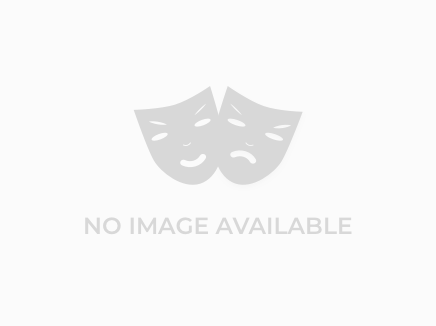
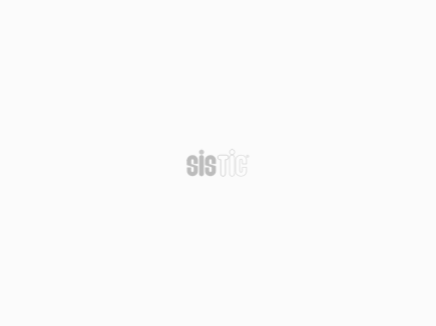
all no images are replaced with new images

Changed region(s): [[0.2982, 0.2761, 0.7156, 0.5828], [0.1789, 0.6442, 0.805, 0.7362]]

diff --git a/web/src/shared/components/Image/index.js b/web/src/shared/components/Image/index.js
@@ -2,20 +2,20 @@ import React, { useState, useEffect, memo } from 'react';
 import PropTypes from 'prop-types';
 import Horizontal from '../../../assets/images/horizontal.png';
 import Vertical from '../../../assets/images/vertical.png';
-import Tile from '../../../assets/images/Vertical Tile.png';
+import Tile from '../../../assets/images/tile.png';
 import Small from '../../../assets/images/small.png';
-import Medium from '../../../assets/images/noimage.png';
+import Medium from '../../../assets/images/medium.png';
 import MediumVertical from '../../../assets/images/mediumVertical.png';
-import MediumHorizontal from '../../../assets/images/mediumHorizontal.jpg';
-import TopPicks from '../../../assets/images/noimage-420-652.png';
+import MediumHorizontal from '../../../assets/images/mediumHorizontal.png';
+import TopPicks from '../../../assets/images/topPicks.png';
 import HorizontalMin from '../../../assets/images/HorizontalMin.png';
-import VerticalTopPic from '../../../assets/images/rsz_vertical.png';
-// import BigBannerMobile from '../../../assets/images/big_banner.png';
-import BigBanner from '../../../assets/images/royals-banner.png';
-import NoImage from '../../../assets/images/No image-.png';
+import VerticalTopPic from '../../../assets/images/verticalTopPic.png';
+// import BigBannerMobile from '../../../assets/images/BigBannerMobile.png';
+import BigBanner from '../../../assets/images/BigBanner.png';
+import NoImage from '../../../assets/images/NoImage.png';
 import Smaller from '../../../assets/images/smaller.png';
 import Promotion from '../../../assets/images/promotion.png';
-import SimilarPicks from '../../../assets/images/similar-picks-noimage.png';
+import SimilarPicks from '../../../assets/images/similarPicks.png';
 import './style.scss';
 
 function Image(props) {

diff --git a/web/src/scenes/Explore/LandingPage/LandingArticles/Article/index.js b/web/src/scenes/Explore/LandingPage/LandingArticles/Article/index.js
@@ -6,7 +6,14 @@ import Utilities from '../../../../../shared/utilities';
 
 const Article = ({ article }) => {
   return (
-    <div className="articles-item">
+    <Link
+      className="articles-item"
+      to={
+        article.type === 'multi_show_template'
+          ? `/explore/2/${article.id}`
+          : `/explore/1/${article.id}`
+      }
+    >
       <div className="article-item-desc">
         <div className="category-group">
           <ul>
@@ -21,15 +28,9 @@ const Article = ({ article }) => {
               })}
           </ul>
         </div>
-        <Link
-          to={
-            article.type === 'multi_show_template'
-              ? `/explore/2/${article.id}`
-              : `/explore/1/${article.id}`
-          }
-        >
+        <a>
           <h3>{article.title}</h3>
-        </Link>
+        </a>
         <div className="article-place-date">
           {article.author_name && (
             <span className="article-place">
@@ -45,15 +46,7 @@ const Article = ({ article }) => {
             article.description,
             Utilities.mobilecheck() ? 80 : 98
           )}
-          <Link
-            to={
-              article.type === 'multi_show_template'
-                ? `/explore/2/${article.id}`
-                : `/explore/1/${article.id}`
-            }
-          >
-            More
-          </Link>
+          <a>More</a>
         </p>
       </div>
       <div className="article-item-img">
@@ -63,7 +56,7 @@ const Article = ({ article }) => {
           className="img-fluid"
         />
       </div>
-    </div>
+    </Link>
   );
 };
 

diff --git a/web/src/scenes/Explore/LandingPage/Banner/index.js b/web/src/scenes/Explore/LandingPage/Banner/index.js
@@ -3,7 +3,7 @@ import './style.scss';
 import Slider from 'react-slick';
 import Image from '../../../../shared/components/Image';
 import Utilities from '../../../../shared/utilities';
-import NoImage from '../../../../assets/images/noimage.png';
+import NoImage from '../../../../assets/images/medium.png';
 
 const BannerSlider = ({ bannerData }) => {
   const [nav1, setNav1] = useState(null);
@@ -58,8 +58,12 @@ const BannerSlider = ({ bannerData }) => {
                     )}
                   </div>
                   <div className="explore-banner-image">
-                    {banner && banner.image && <img src={banner.image} alt="banner_image" />}
-                    {banner && !banner.image && <img src={NoImage} alt="banner_image" />}
+                    {banner && banner.image && (
+                      <img src={banner.image} alt="banner_image" />
+                    )}
+                    {banner && !banner.image && (
+                      <img src={NoImage} alt="banner_image" />
+                    )}
                   </div>
                 </div>
               );
